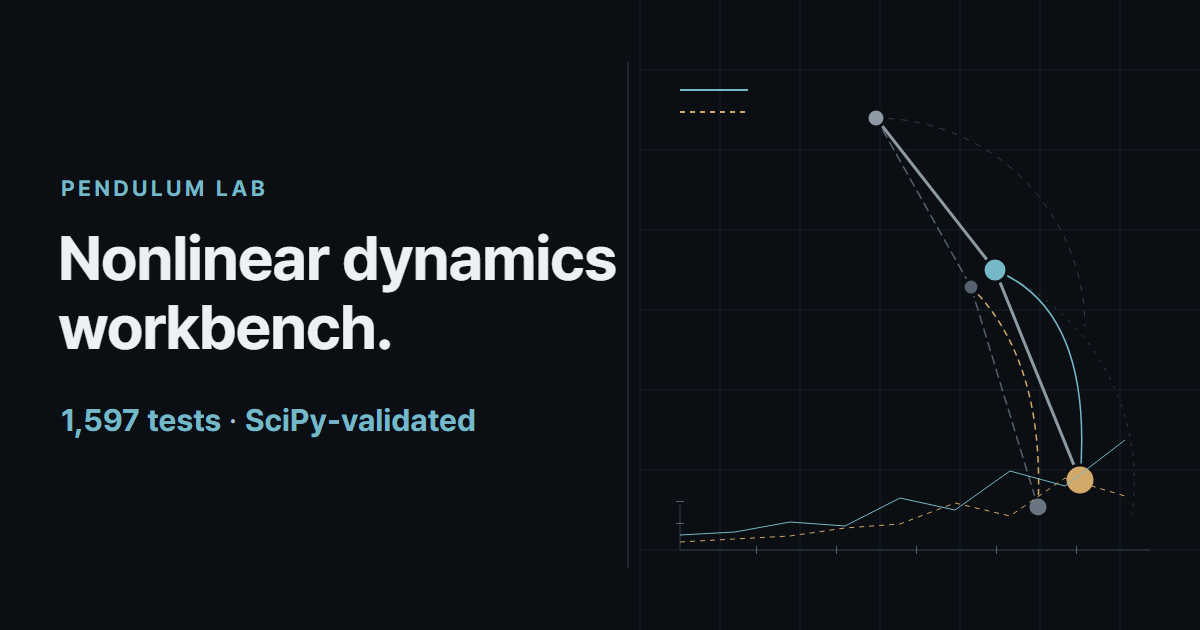
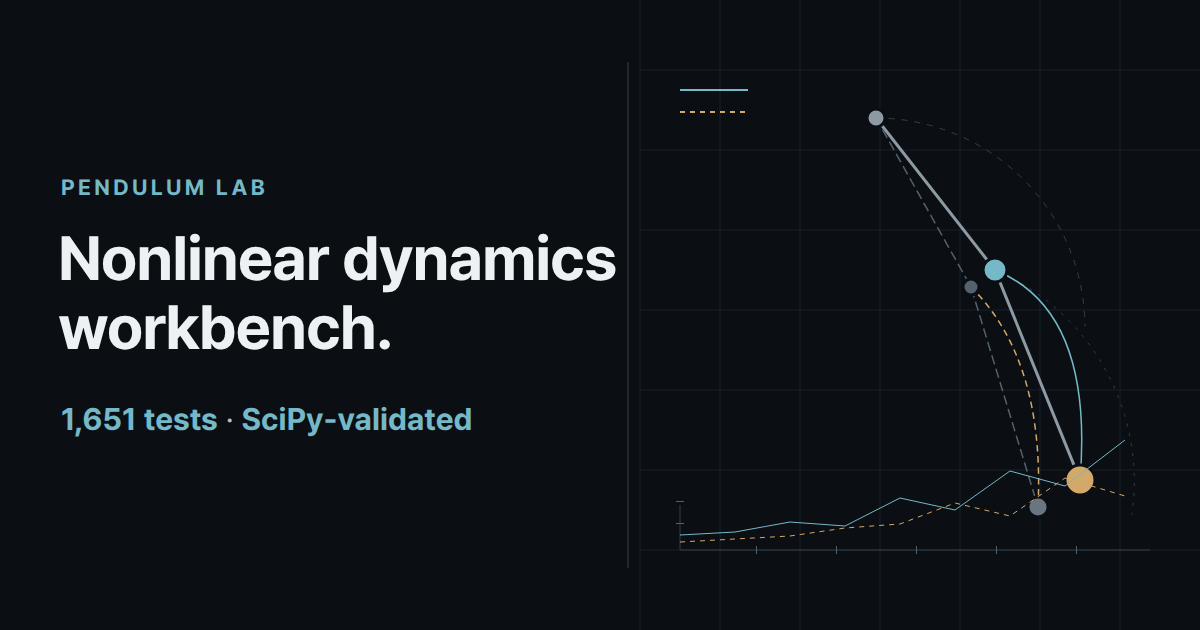
chore: sync deployed evidence from pendulum-lab@66f80786b812 (Pages run 33402505137)

diff --git a/ko.html b/ko.html
@@ -3,13 +3,13 @@
 <meta charset="UTF-8">
 <meta name="viewport" content="width=device-width, initial-scale=1.0, viewport-fit=cover">
 <title>Pendulum Lab — 비선형 동역학 워크벤치</title>
-<meta name="description" content="비선형 진자 동역학, 수치 진단, 재현 가능한 실험, 검토 가능한 검증 근거를 위한 브라우저 기반 워크벤치. 1,597개 단위 테스트, SciPy와 출판 문헌으로 검증.">
+<meta name="description" content="비선형 진자 동역학, 수치 진단, 재현 가능한 실험, 검토 가능한 검증 근거를 위한 브라우저 기반 워크벤치. 1,651개 단위 테스트, SciPy와 출판 문헌으로 검증.">
 <meta name="robots" content="index,follow,max-image-preview:large,max-snippet:-1,max-video-preview:-1">
 <meta name="referrer" content="strict-origin-when-cross-origin">
 <meta name="theme-color" content="#0b0e12">
 <meta name="color-scheme" content="dark">
 <meta property="og:title" content="Pendulum Lab — 비선형 동역학 워크벤치">
-<meta property="og:description" content="비선형 진자 동역학, 수치 진단, 재현 가능한 실험, 검토 가능한 검증 근거를 위한 브라우저 기반 워크벤치. 1,597개 단위 테스트, SciPy와 출판 문헌으로 검증.">
+<meta property="og:description" content="비선형 진자 동역학, 수치 진단, 재현 가능한 실험, 검토 가능한 검증 근거를 위한 브라우저 기반 워크벤치. 1,651개 단위 테스트, SciPy와 출판 문헌으로 검증.">
 <meta property="og:type" content="website">
 <meta property="og:site_name" content="Pendulum Lab">
 <meta property="og:url" content="https://elliotjung.github.io/pendulum-landing/ko.html">
@@ -19,12 +19,12 @@
 <meta property="og:image:type" content="image/png">
 <meta property="og:image:width" content="1200">
 <meta property="og:image:height" content="630">
-<meta property="og:image:alt" content="Pendulum Lab 비선형 동역학 워크벤치 — 1,597개 테스트와 SciPy 검증.">
+<meta property="og:image:alt" content="Pendulum Lab 비선형 동역학 워크벤치 — 1,651개 테스트와 SciPy 검증.">
 <meta name="twitter:card" content="summary_large_image">
 <meta name="twitter:title" content="Pendulum Lab — 비선형 동역학 워크벤치">
-<meta name="twitter:description" content="비선형 진자 동역학, 수치 진단, 재현 가능한 실험, 검토 가능한 검증 근거를 위한 브라우저 기반 워크벤치. 1,597개 단위 테스트, SciPy와 출판 문헌으로 검증.">
+<meta name="twitter:description" content="비선형 진자 동역학, 수치 진단, 재현 가능한 실험, 검토 가능한 검증 근거를 위한 브라우저 기반 워크벤치. 1,651개 단위 테스트, SciPy와 출판 문헌으로 검증.">
 <meta name="twitter:image" content="https://elliotjung.github.io/pendulum-landing/assets/og-card.png">
-<meta name="twitter:image:alt" content="Pendulum Lab 비선형 동역학 워크벤치 — 1,597개 테스트와 SciPy 검증.">
+<meta name="twitter:image:alt" content="Pendulum Lab 비선형 동역학 워크벤치 — 1,651개 테스트와 SciPy 검증.">
 <link rel="canonical" href="https://elliotjung.github.io/pendulum-landing/ko.html">
 <link rel="alternate" hreflang="en" href="https://elliotjung.github.io/pendulum-landing/">
 <link rel="alternate" hreflang="ko" href="https://elliotjung.github.io/pendulum-landing/ko.html">
@@ -51,7 +51,7 @@
       "@id": "https://elliotjung.github.io/pendulum-landing/ko.html#webpage",
       "url": "https://elliotjung.github.io/pendulum-landing/ko.html",
       "name": "Pendulum Lab — 비선형 동역학 워크벤치",
-      "description": "비선형 진자 동역학, 수치 진단, 재현 가능한 실험, 검토 가능한 검증 근거를 위한 브라우저 기반 워크벤치. 1,597개 단위 테스트, SciPy와 출판 문헌으로 검증.",
+      "description": "비선형 진자 동역학, 수치 진단, 재현 가능한 실험, 검토 가능한 검증 근거를 위한 브라우저 기반 워크벤치. 1,651개 단위 테스트, SciPy와 출판 문헌으로 검증.",
       "inLanguage": "ko",
       "dateModified": "2026-08-31",
       "mainEntity": {
@@ -222,7 +222,7 @@
           <a class="btn ghost" href="https://elliotjung.github.io/pendulum-lab/?goal=explore&amp;audience=beginner&amp;lang=ko&amp;preset=butterfly&amp;tab=lab" data-app-link="" data-cta-goal="explore" data-cta-persona="beginner" data-utm-content="hero-open">전체 랩 열기</a>
         </div>
         <p class="hero-trust-line">
-          <strong data-evidence="tests.formatted">1,597</strong> 테스트
+          <strong data-evidence="tests.formatted">1,651</strong> 테스트
           <span aria-hidden="true">·</span>
           <strong>SciPy</strong>-검증
           <span aria-hidden="true">·</span>
@@ -768,12 +768,12 @@
             </tr>
           </tbody>
         </table>
-        <p class="evidence-freshness" data-evidence-freshness="" role="status">검증 근거 최신 · 검증됨 2 · 측정됨 1 · 정보용 2 · 보류 1 · 2026년 9월 9일까지 유효</p>
+        <p class="evidence-freshness" data-evidence-freshness="" role="status">검증 근거 최신 · 검증됨 2 · 측정됨 1 · 정보용 2 · 보류 1 · 2026년 9월 14일까지 유효</p>
       </div>
 
       <div class="val-side">
         <div class="val-stat reveal">
-          <div class="big" data-count="1597" data-decimals="0" data-evidence-count="tests.passed"></div>
+          <div class="big" data-count="1651" data-decimals="0" data-evidence-count="tests.passed"></div>
           <div class="cap">Unit tests · <span data-claim-status="tests.unit" data-evidence="claim.tests.unit.level">검증됨</span></div>
           <p><span data-claim-caveat="tests.unit" data-evidence="claim.tests.unit.caveat">성공한 전체 테스트 결과와 정확한 소스 해시가 있을 때만 검증됨으로 표시합니다.</span> 여기에 Chromium·Firefox·WebKit·모바일 E2E 스위트, 그리고 기계가 읽을 수 있는 Stryker 집계 <span data-evidence="mutation.scoreLabel">65.32% · 낮음 등급 · 29개 샤드</span> (<span data-claim-status="testing.mutation" data-evidence="claim.testing.mutation.level">정보용</span>). <span data-claim-caveat="testing.mutation" data-evidence="claim.testing.mutation.caveat">70% 품질 목표 미만이면 검증됨이 아니라 측정됨으로 낮춰 표시합니다.</span></p>
         </div>
@@ -797,7 +797,7 @@
         <span class="pass"><i></i> CI에서 강제</span>
       </div>
       <div class="ledger-rows">
-        <div class="ledger-row"><span class="k">verify</span><span class="v" data-evidence="ledger.verify">CSP 안전 린트 → 엄격 타입 검사 → 모듈 크기 래칫 → 1597개 단위 테스트 → 결과 수 가드 → 문서 동기화 → 포맷 게이트</span></div>
+        <div class="ledger-row"><span class="k">verify</span><span class="v" data-evidence="ledger.verify">CSP 안전 린트 → 엄격 타입 검사 → 모듈 크기 래칫 → 1651개 단위 테스트 → 결과 수 가드 → 문서 동기화 → 포맷 게이트</span></div>
         <div class="ledger-row"><span class="k">browsers</span><span class="v">Chromium·모바일 Chrome·Firefox·WebKit에서 Playwright E2E, 호스트별 시각 회귀 기준선 포함</span></div>
         <div class="ledger-row"><span class="k">memory</span><span class="v">커밋된 브라우저 벤치마크 기준선 대비 하드 메모리 회귀 게이트</span></div>
         <div class="ledger-row"><span class="k">evidence</span><span class="v">리포트가 소스 커밋을 증명하고, 리뷰어 콘솔이 기계가 읽는 인증 체인을 읽습니다</span></div>

diff --git a/index.html b/index.html
@@ -4,7 +4,7 @@
 <meta charset="UTF-8" />
 <meta name="viewport" content="width=device-width, initial-scale=1.0, viewport-fit=cover" />
 <title>Pendulum Lab — Nonlinear Dynamics Workbench</title>
-<meta name="description" content="A browser-based workbench for nonlinear pendulum dynamics, numerical diagnostics, and reproducible experiments, with 1,597 verified tests and SciPy cross-validation." />
+<meta name="description" content="A browser-based workbench for nonlinear pendulum dynamics, numerical diagnostics, and reproducible experiments, with 1,651 verified tests and SciPy cross-validation." />
 <meta name="robots" content="index,follow,max-image-preview:large,max-snippet:-1,max-video-preview:-1" />
 <meta name="referrer" content="strict-origin-when-cross-origin" />
 <meta name="theme-color" content="#0b0e12" />
@@ -20,12 +20,12 @@
 <meta property="og:image:type" content="image/png" />
 <meta property="og:image:width" content="1200" />
 <meta property="og:image:height" content="630" />
-<meta property="og:image:alt" content="Pendulum Lab nonlinear dynamics workbench — 1,597 tests and SciPy validation." />
+<meta property="og:image:alt" content="Pendulum Lab nonlinear dynamics workbench — 1,651 tests and SciPy validation." />
 <meta name="twitter:card" content="summary_large_image" />
 <meta name="twitter:title" content="Pendulum Lab — Nonlinear Dynamics Workbench" />
 <meta name="twitter:description" content="A browser workbench for specified experiments, numerical diagnostics, and reproducible research outputs." />
 <meta name="twitter:image" content="https://elliotjung.github.io/pendulum-landing/assets/og-card.png" />
-<meta name="twitter:image:alt" content="Pendulum Lab nonlinear dynamics workbench — 1,597 tests and SciPy validation." />
+<meta name="twitter:image:alt" content="Pendulum Lab nonlinear dynamics workbench — 1,651 tests and SciPy validation." />
 <link rel="canonical" href="https://elliotjung.github.io/pendulum-landing/" />
 <link rel="alternate" hreflang="en" href="https://elliotjung.github.io/pendulum-landing/" />
 <link rel="alternate" hreflang="ko" href="https://elliotjung.github.io/pendulum-landing/ko.html" />
@@ -53,7 +53,7 @@
       "@id": "https://elliotjung.github.io/pendulum-landing/#webpage",
       "url": "https://elliotjung.github.io/pendulum-landing/",
       "name": "Pendulum Lab — Nonlinear Dynamics Workbench",
-      "description": "A browser-based workbench for nonlinear pendulum dynamics, numerical diagnostics, and reproducible experiments, with 1,597 verified tests and SciPy cross-validation.",
+      "description": "A browser-based workbench for nonlinear pendulum dynamics, numerical diagnostics, and reproducible experiments, with 1,651 verified tests and SciPy cross-validation.",
       "inLanguage": "en",
       "dateModified": "2026-08-31",
       "mainEntity": {
@@ -226,7 +226,7 @@
           <a class="btn ghost" href="https://elliotjung.github.io/pendulum-lab/?goal=explore&amp;audience=beginner&amp;lang=en&amp;preset=butterfly&amp;tab=lab" data-app-link data-cta-goal="explore" data-cta-persona="beginner" data-utm-content="hero-open">Open full Lab</a>
         </div>
         <p class="hero-trust-line">
-          <strong data-evidence="tests.formatted">1,597</strong> tests
+          <strong data-evidence="tests.formatted">1,651</strong> tests
           <span aria-hidden="true">·</span>
           <strong>SciPy</strong>-validated
           <span aria-hidden="true">·</span>
@@ -772,12 +772,12 @@
             </tr>
           </tbody>
         </table>
-        <p class="evidence-freshness" data-evidence-freshness role="status">Evidence current · 2 validated · 1 measured · 2 informational · 1 withheld · valid through 9 Sept 2026</p>
+        <p class="evidence-freshness" data-evidence-freshness role="status">Evidence current · 2 validated · 1 measured · 2 informational · 1 withheld · valid through 14 Sept 2026</p>
       </div>
 
       <div class="val-side">
         <div class="val-stat reveal">
-          <div class="big" data-count="1597" data-decimals="0" data-evidence-count="tests.passed"></div>
+          <div class="big" data-count="1651" data-decimals="0" data-evidence-count="tests.passed"></div>
           <div class="cap">Unit tests · <span data-claim-status="tests.unit" data-evidence="claim.tests.unit.level">validated</span></div>
           <p><span data-claim-caveat="tests.unit" data-evidence="claim.tests.unit.caveat">Windows headless WebKit audio instability is environment evidence; user-facing audio needs a fallback and an explicit browser matrix.</span> Plus Chromium, Firefox, WebKit and mobile end-to-end suites, with a machine-readable Stryker aggregate of <span data-evidence="mutation.scoreLabel">65.32% · low band · 29 shards</span> (<span data-claim-status="testing.mutation" data-evidence="claim.testing.mutation.level">informational</span>). <span data-claim-caveat="testing.mutation" data-evidence="claim.testing.mutation.caveat">Expired or undated mutation evidence cannot retain a validated public level. A mutation score below the quality target remains a measurement, not a validated quality claim. Below the 70% quality target; the 65% regression floor is enforced. This evidence is expired and retained only as historical information.</span></p>
         </div>
@@ -801,7 +801,7 @@
         <span class="pass"><i></i> enforced in CI</span>
       </div>
       <div class="ledger-rows">
-        <div class="ledger-row"><span class="k">verify</span><span class="v" data-evidence="ledger.verify">CSP-safe lint → strict typecheck → module-size ratchet → 1597 unit tests → result-count guard → docs sync → format gate</span></div>
+        <div class="ledger-row"><span class="k">verify</span><span class="v" data-evidence="ledger.verify">CSP-safe lint → strict typecheck → module-size ratchet → 1651 unit tests → result-count guard → docs sync → format gate</span></div>
         <div class="ledger-row"><span class="k">browsers</span><span class="v">Playwright e2e on Chromium, mobile-Chrome, Firefox and WebKit, with visual-regression baselines per host</span></div>
         <div class="ledger-row"><span class="k">memory</span><span class="v">Hard memory-regression gate against a committed browser-benchmark baseline</span></div>
         <div class="ledger-row"><span class="k">evidence</span><span class="v">Reports attest their source commit; a reviewer console reads the machine-readable certification chain</span></div>

diff --git a/assets/i18n-core.js b/assets/i18n-core.js
@@ -525,8 +525,8 @@
 
   const TITLE_KO = 'Pendulum Lab — 비선형 동역학 워크벤치';
   const META_DESCRIPTION_KO =
-    '비선형 진자 동역학, 수치 진단, 재현 가능한 실험, 검토 가능한 검증 근거를 위한 브라우저 기반 워크벤치. 1,597개 단위 테스트, SciPy와 출판 문헌으로 검증.';
-  const SHARE_IMAGE_ALT_KO = 'Pendulum Lab 비선형 동역학 워크벤치 — 1,597개 테스트와 SciPy 검증.';
+    '비선형 진자 동역학, 수치 진단, 재현 가능한 실험, 검토 가능한 검증 근거를 위한 브라우저 기반 워크벤치. 1,651개 단위 테스트, SciPy와 출판 문헌으로 검증.';
+  const SHARE_IMAGE_ALT_KO = 'Pendulum Lab 비선형 동역학 워크벤치 — 1,651개 테스트와 SciPy 검증.';
 
   function normalize(text) {
     return text.replace(/\s+/g, ' ').trim();
